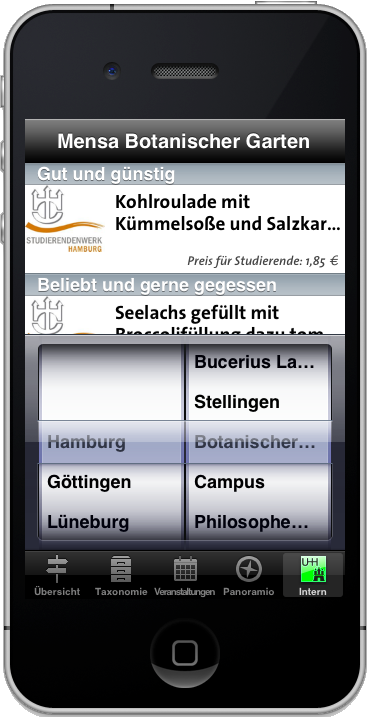
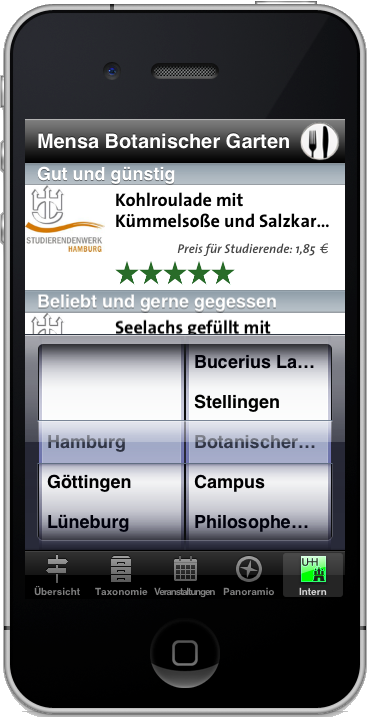
with social form

Changed region(s): [[0.0598, 0.2455, 0.9565, 0.4909], [0.0897, 0.1534, 0.9266, 0.2455]]

diff --git a/Resources/module/uhh.window.js b/Resources/module/uhh.window.js
@@ -41,7 +41,10 @@ exports.create = function() {
 				for (var i = 0; i < _menue[m].items.length; i++) {
 					var row = Ti.UI.createTableViewRow({
 						height : Ti.UI.SIZE,
-						backgroundColor : 'white'
+						backgroundColor : 'white',
+						data : {
+							title : _menue[m].items[i].text
+						}
 					});
 					row.add(Ti.UI.createImageView({
 						width : 80,
@@ -55,7 +58,8 @@ exports.create = function() {
 						right : 10,
 						height : Ti.UI.SIZE,
 						layout : 'vertical',
-						width : Ti.UI.SIZE
+						width : Ti.UI.SIZE,
+						top : Ti.UI.CONF.padding / 2
 					});
 					row.add(container);
 					container.add(Ti.UI.createLabel({
@@ -88,9 +92,10 @@ exports.create = function() {
 					var voting = Ti.UI.createView({
 						width : Ti.UI.FILL,
 						height : 30,
+						top : 80,
 						layout : 'horizontal'
 					});
-					container.add(voting);
+					row.add(voting);
 					require('vendor/mensa').getVoting(_menue[m].items[i].text, function(_count) {
 						for (var i = 0; i < _count; i++) {
 							voting.add(Ti.UI.createImageView({
@@ -109,11 +114,8 @@ exports.create = function() {
 		});
 	});
 	self.add(self.picker);
-	self.tv.addEventListener('longpress', function() {
-		self.picker.animate({
-			bottom : 0
-		});
-
+	self.tv.addEventListener('click', function(_e) {
+		self.tab.open(require('vendor/mensa.social.window').create(_e.rowData.data.title));
 	});
 	self.rightButton.addEventListener('click', function() {
 		self.picker.animate({

diff --git a/Resources/app.js b/Resources/app.js
@@ -1,4 +1,5 @@
 Ti.XML2JSON = require('ti.xml2json');
+Ti.Cloud = require('ti.cloud');
 Ti.include('/vendor/prototypes.js');
 require('module/ui.tabgroup').create();
 require('module/botanicgarden.model').getAll();
